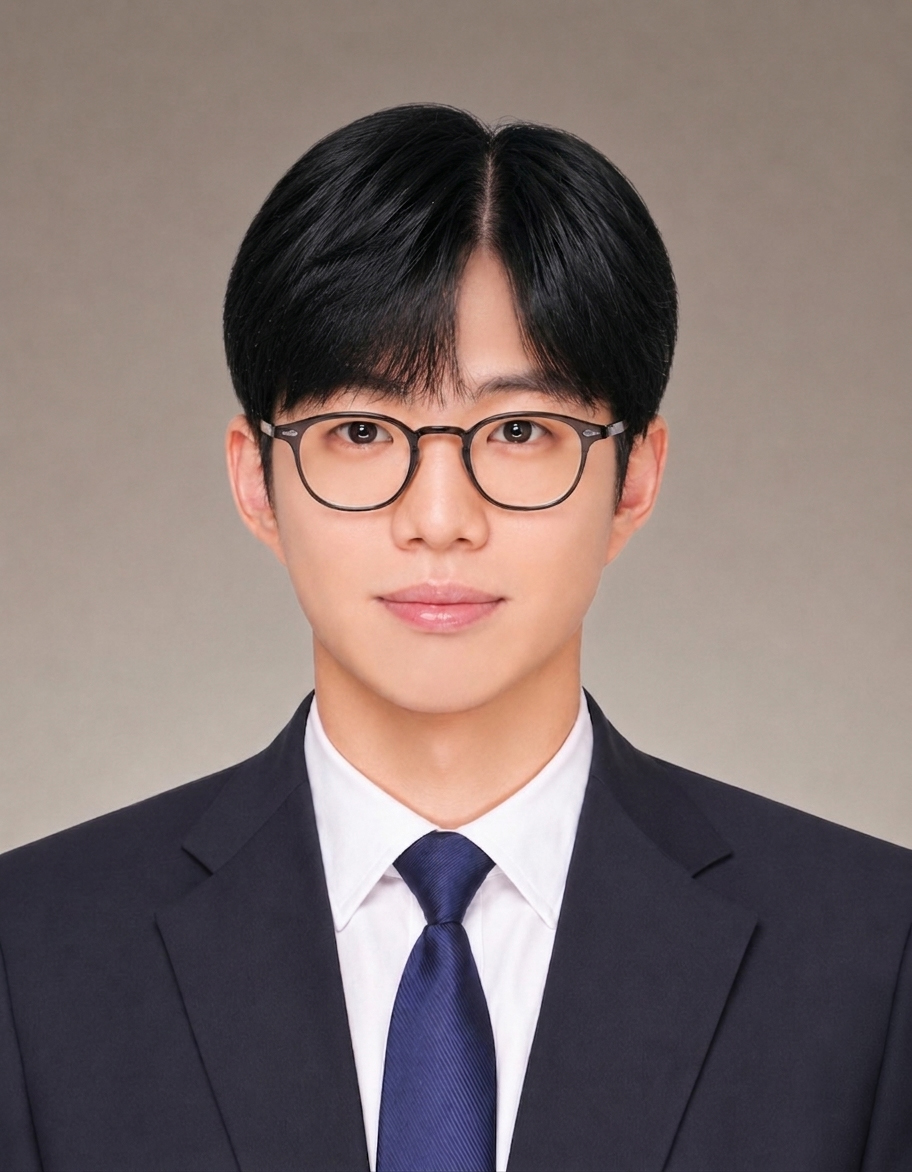
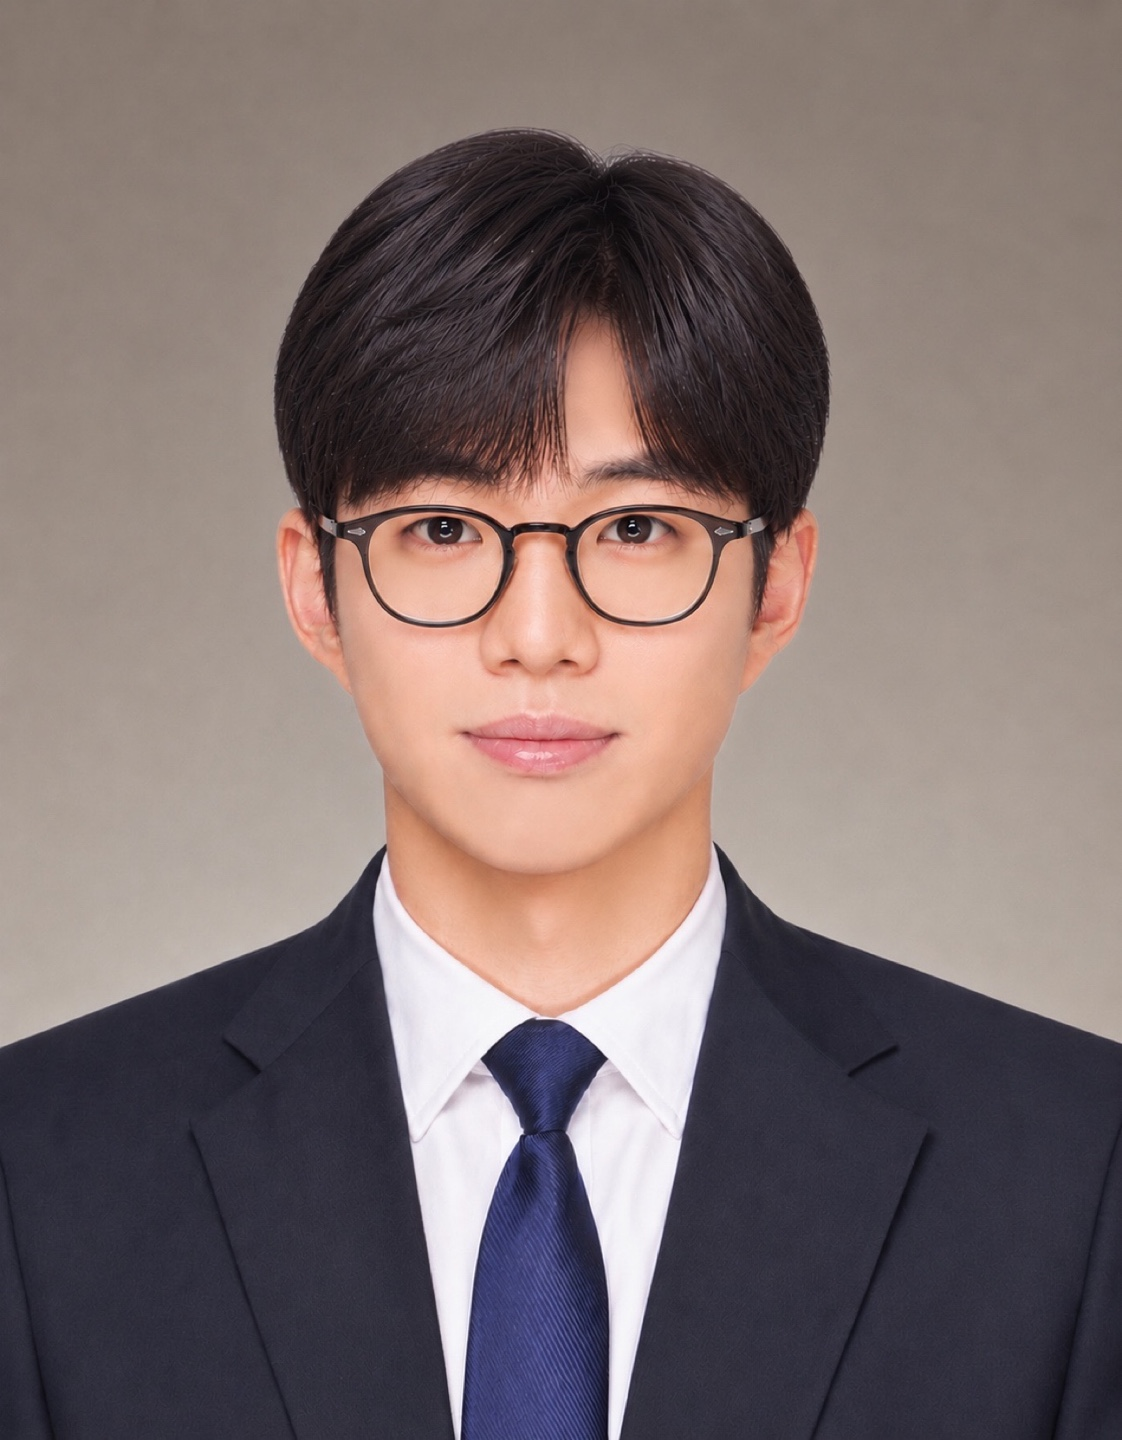
Add aditional

diff --git a/css/home.css b/css/home.css
@@ -2,6 +2,9 @@
    HOME SECTION
 ************************* */
 .home {
+    display: flex;
+    align-items: center;
+
     min-height: 100vh;
     padding-top: 120px;
     padding-bottom: 120px;
@@ -13,23 +16,32 @@
 /* HOME 내부의 콘텐츠 배치 */
 .home-content {
     display: flex;
-    align-items: flex-start;
+    align-items: flex-end;
 
-    max-width: 1400px;
+    width: 100%;
+    min-height: calc(100vh - 240px);
+    max-width: 1080px;
     margin: 0 auto;
     padding: 0 40px;
 }
 
 /* 왼쪽 텍스트 영역 */
 .home-text {
+    position: relative;
+
     max-width: 520px;
+    --home-text-position: -112px;
+    transform: translateY(var(--home-text-position));
+    transition: transform 0.4s ease;
 }
 
 /* 오른쪽 프로필 사진 영역 */
 .home-character {
-    width: 300px;
-    margin-top: 48px;
-    margin-left: auto;
+    align-self: center;
+
+    width: 280px;
+    margin-left: 80px;
+    transform: translateY(13px);
 }
 
 /* 사진이 부모 영역의 너비를 따르도록 설정 */
@@ -41,7 +53,7 @@
 .home-course {
     margin-bottom: 10px;
 
-    font-size: 14px;
+    font-size: 15px;
     letter-spacing: 0.08em;
 }
 
@@ -49,13 +61,13 @@
 .home h1 {
     margin-bottom: 16px;
 
-    font-size: 36px;
+    font-size: 44px;
     font-weight: 500;
 }
 
 /* 일본어 이름만 별도 크기와 굵기 적용 */
 .home h1 span {
-    font-size: 20px;
+    font-size: 22px;
     font-weight: 400;
 }
 
@@ -63,7 +75,7 @@
 .home-role {
     margin-bottom: 24px;
 
-    font-size: 14px;
+    font-size: 15px;
     letter-spacing: 0.12em;
 }
 
@@ -72,7 +84,7 @@
     max-width: 420px;
     margin-bottom: 32px;
 
-    font-size: 16px;
+    font-size: 17px;
     line-height: 1.8;
 }
 
@@ -92,8 +104,24 @@
 
 /* JavaScript로 열고 닫을 예정인 ABOUT ME 상세 내용 */
 .about-detail {
+    position: absolute;
+    top: 100%;
+    left: 0;
+
+    width: 100%;
     max-width: 520px;
+    max-height: 0;
+    overflow: hidden;
+
+    opacity: 0;
+    transition: max-height 0.4s ease, margin-top 0.4s ease, opacity 0.3s ease;
+}
+
+.home.is-about-open .about-detail {
+    max-height: 400px;
     margin-top: 40px;
+
+    opacity: 1;
 }
 
 .about-detail h2 {
@@ -110,4 +138,29 @@
 
 .about-detail p + p {
     margin-top: 16px;
+}
+
+/* HOME에서 외부 기록으로 바로 이동하는 링크 */
+.home-links {
+    display: flex;
+    align-self: center;
+    flex-direction: column;
+    gap: 12px;
+
+    margin-left: auto;
+    transform: translateY(120px);
+    font-size: 15px;
+    letter-spacing: 0.1em;
+}
+
+.home-links a {
+    width: fit-content;
+    padding-bottom: 4px;
+
+    border-bottom: 1px solid currentColor;
+    transition: opacity 0.3s ease;
+}
+
+.home-links a:hover {
+    opacity: 0.7;
 }

diff --git a/js/script.js b/js/script.js
@@ -1,16 +1,26 @@
 /* ABOUT ME 열기와 닫기 */
 const aboutButton = document.querySelector(".about-button");
-const aboutDetail = document.querySelector(".about-detail");
+const home = document.querySelector(".home");
+const header = document.querySelector(".header");
+const homeText = document.querySelector(".home-text");
 
 aboutButton.addEventListener("click", function () {
     const isOpen = aboutButton.getAttribute("aria-expanded") === "true";
 
     if (isOpen) {
-        aboutDetail.hidden = true;
+        home.classList.remove("is-about-open");
+        homeText.style.removeProperty("--home-text-position");
         aboutButton.setAttribute("aria-expanded", "false");
         aboutButton.textContent = "ABOUT ME +";
     } else {
-        aboutDetail.hidden = false;
+        const headerBottom = header.getBoundingClientRect().bottom;
+        const currentTextTop = homeText.getBoundingClientRect().top;
+        const targetTextTop = headerBottom + 24;
+        const moveUp = currentTextTop - targetTextTop;
+        const closedPosition = parseFloat(getComputedStyle(homeText).getPropertyValue("--home-text-position"));
+
+        home.classList.add("is-about-open");
+        homeText.style.setProperty("--home-text-position", (closedPosition - moveUp) + "px");
         aboutButton.setAttribute("aria-expanded", "true");
         aboutButton.textContent = "CLOSE ABOUT −";
     }

diff --git a/index.html b/index.html
@@ -13,6 +13,7 @@
     <link rel="stylesheet" href="css/portfolio.css">
     <link rel="stylesheet" href="css/story.css">
     <link rel="stylesheet" href="css/contact.css">
+    <link rel="stylesheet" href="css/responsive.css">
 </head>
 
 <body>
@@ -87,7 +88,7 @@
                         後でJavaScriptを使用して
                         ABOUT MEを開閉できるようにする
                     -->
-                    <div id="about-detail" class="about-detail" hidden>
+                    <div id="about-detail" class="about-detail">
 
                         <h2>
                             建築からWeb開発へ
@@ -112,6 +113,16 @@
 
                     </div>
 
+                </div>
+
+                <div class="home-links">
+                    <a href="https://zenn.dev/leeseungje" target="_blank" rel="noopener noreferrer">
+                        ZENN ↗
+                    </a>
+
+                    <a href="https://github.com/leeseungje-dev" target="_blank" rel="noopener noreferrer">
+                        GITHUB ↗
+                    </a>
                 </div>
 
                 <!-- Character Image -->
@@ -604,9 +615,9 @@
     </div>
 
 
-    <!-- =========================
+    <!-- *************************
          FOOTER
-    ========================== -->
+    ************************* -->
     <footer class="footer">
 
         <p>

diff --git a/css/header.css b/css/header.css
@@ -10,6 +10,8 @@
     z-index: 1000;
     background-color: var(--deep-green);
     color: var(--ivory);
+
+    box-shadow: 0 4px 12px rgba(0, 0, 0, 0.18);
 }
 
 .nav {
